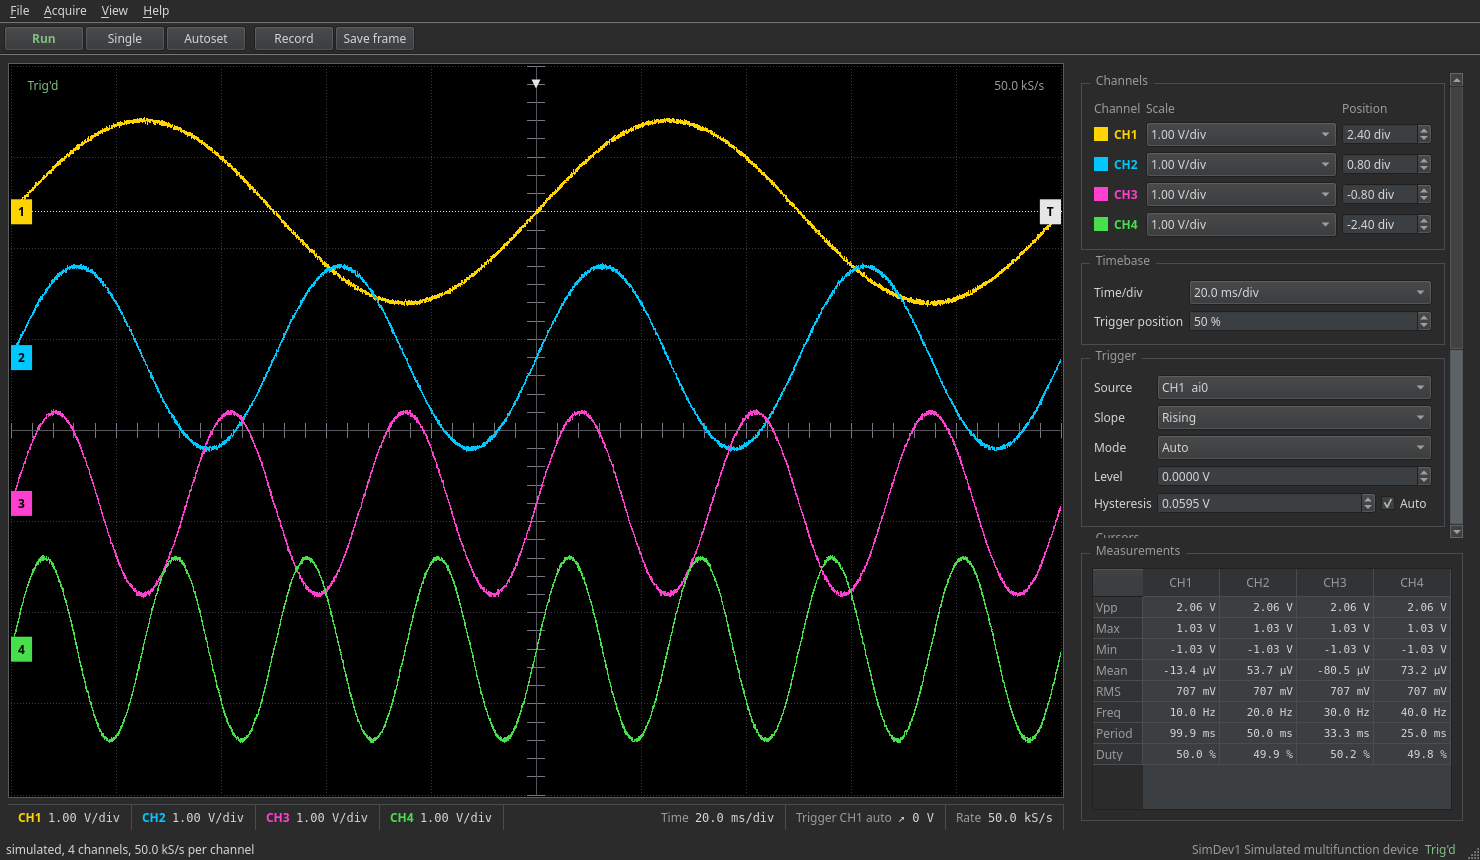
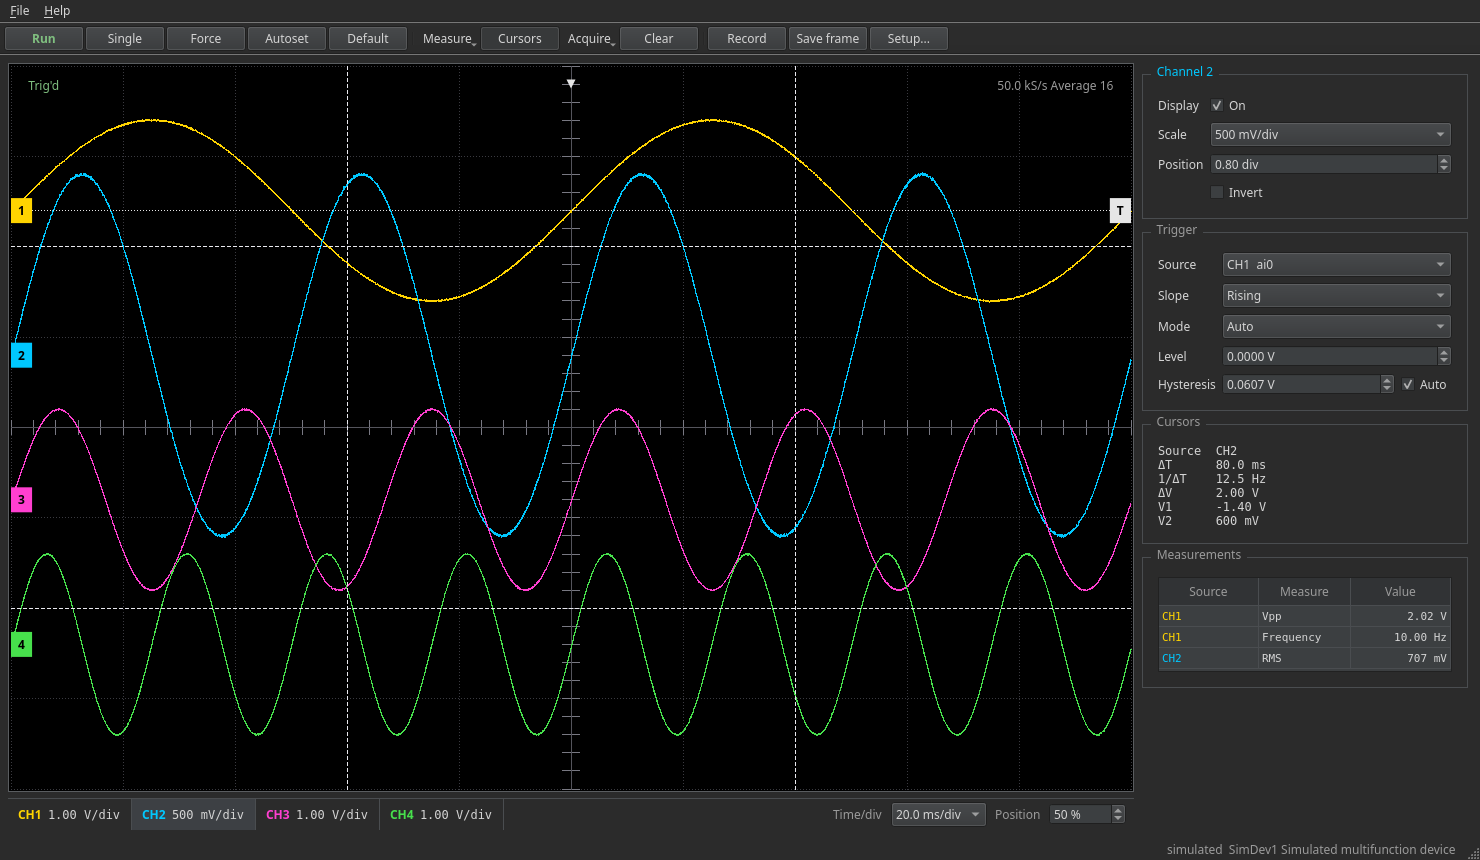
Update README and screenshot

diff --git a/README.md b/README.md
@@ -39,19 +39,28 @@ and only rates the card supports for the current selection are offered.
 
 ## Scope
 
-- Screen: 10 x 8 divisions, per-channel V/div (1 mV to 5 V) and position, time/div in 1-2-5 steps.
+The window follows a bench scope. The screen has the channel tiles and the horizontal controls
+(time/div, trigger position) underneath. Click a tile to select a channel, scroll over it to step
+its V/div, scroll over the screen to step time/div. The panel on the right shows the menu of the
+selected channel and the trigger. Cursors and measurements are off until you switch them on.
+
+- Screen: 10 x 8 divisions, per-channel V/div (1 mV to 5 V), position and invert, time/div in 1-2-5 steps.
 - Trigger: rising or falling edge on any channel, Auto / Normal / Single, draggable level line.
   Hysteresis is derived from the noise on the source (6 sigma of the second difference, capped at
   40 % of the peak-to-peak range) or set by hand. The trigger point is interpolated between
   samples. Auto mode rolls at 100 ms/div and slower.
-- Autoset sets V/div, position, trigger level and time/div from the signals.
-- Cursors: two time and two voltage cursors, with delta t, 1/delta t and delta V.
-- Measurements per channel: Vpp, max, min, mean, RMS, frequency, period, duty.
+- Run/Stop, Single, Force trigger, Autoset (V/div, position, trigger level and time/div from the
+  signals), Default setup, Clear.
+- Acquire: Normal or Average over 4, 16 or 64 triggered frames, aligned on the interpolated trigger point.
+- Measure menu: add Vpp, max, min, mean, RMS, frequency, period or duty cycle for the selected
+  channel. They appear in a table, right click removes one.
+- Cursors: two time and two voltage cursors with delta t, 1/delta t and delta V.
 - Display decimation keeps the min and max of every bin, so narrow glitches are not lost.
-- Record to CSV (default) or npz on a separate thread. Save writes the frame on screen.
+- Record to CSV (default) or npz on a separate thread. Save frame writes the frame on screen.
   CSV has two `#` comment lines (sample rate, start time) and then a `time_s,<channels>` header,
   so `pandas.read_csv(path, comment="#")` reads it directly.
-- Readout bar: click a channel to hide it, scroll over a tile to step its setting.
+- Setup: backend, device, inputs and sample rate.
+- Keys: F5 run/stop, F6 single, F7 force, F8 autoset, Ctrl+R record, Ctrl+S save frame.
 
 ## Python
 
